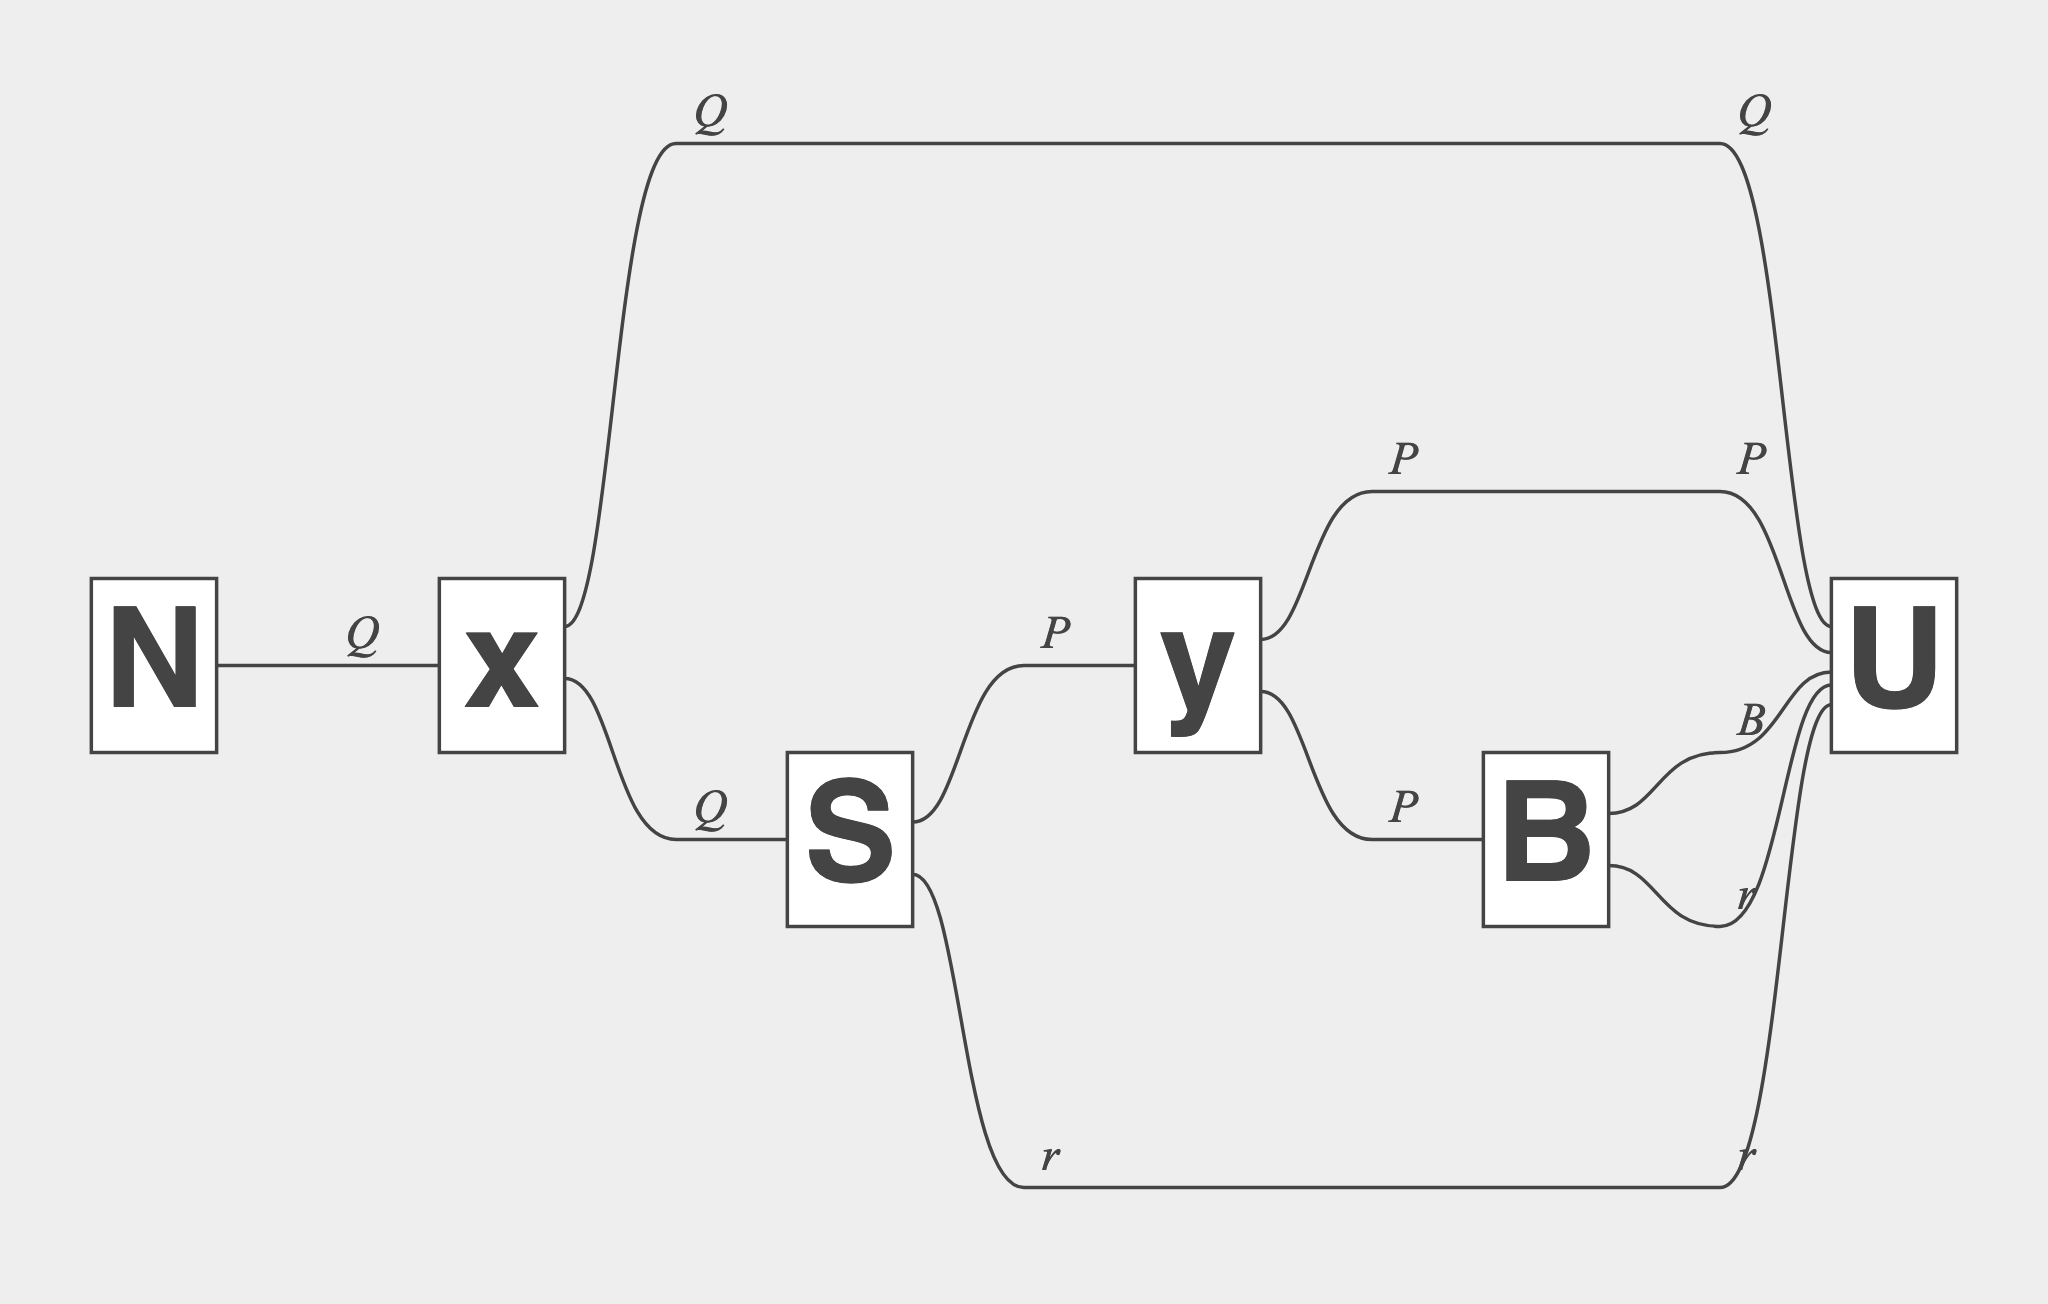
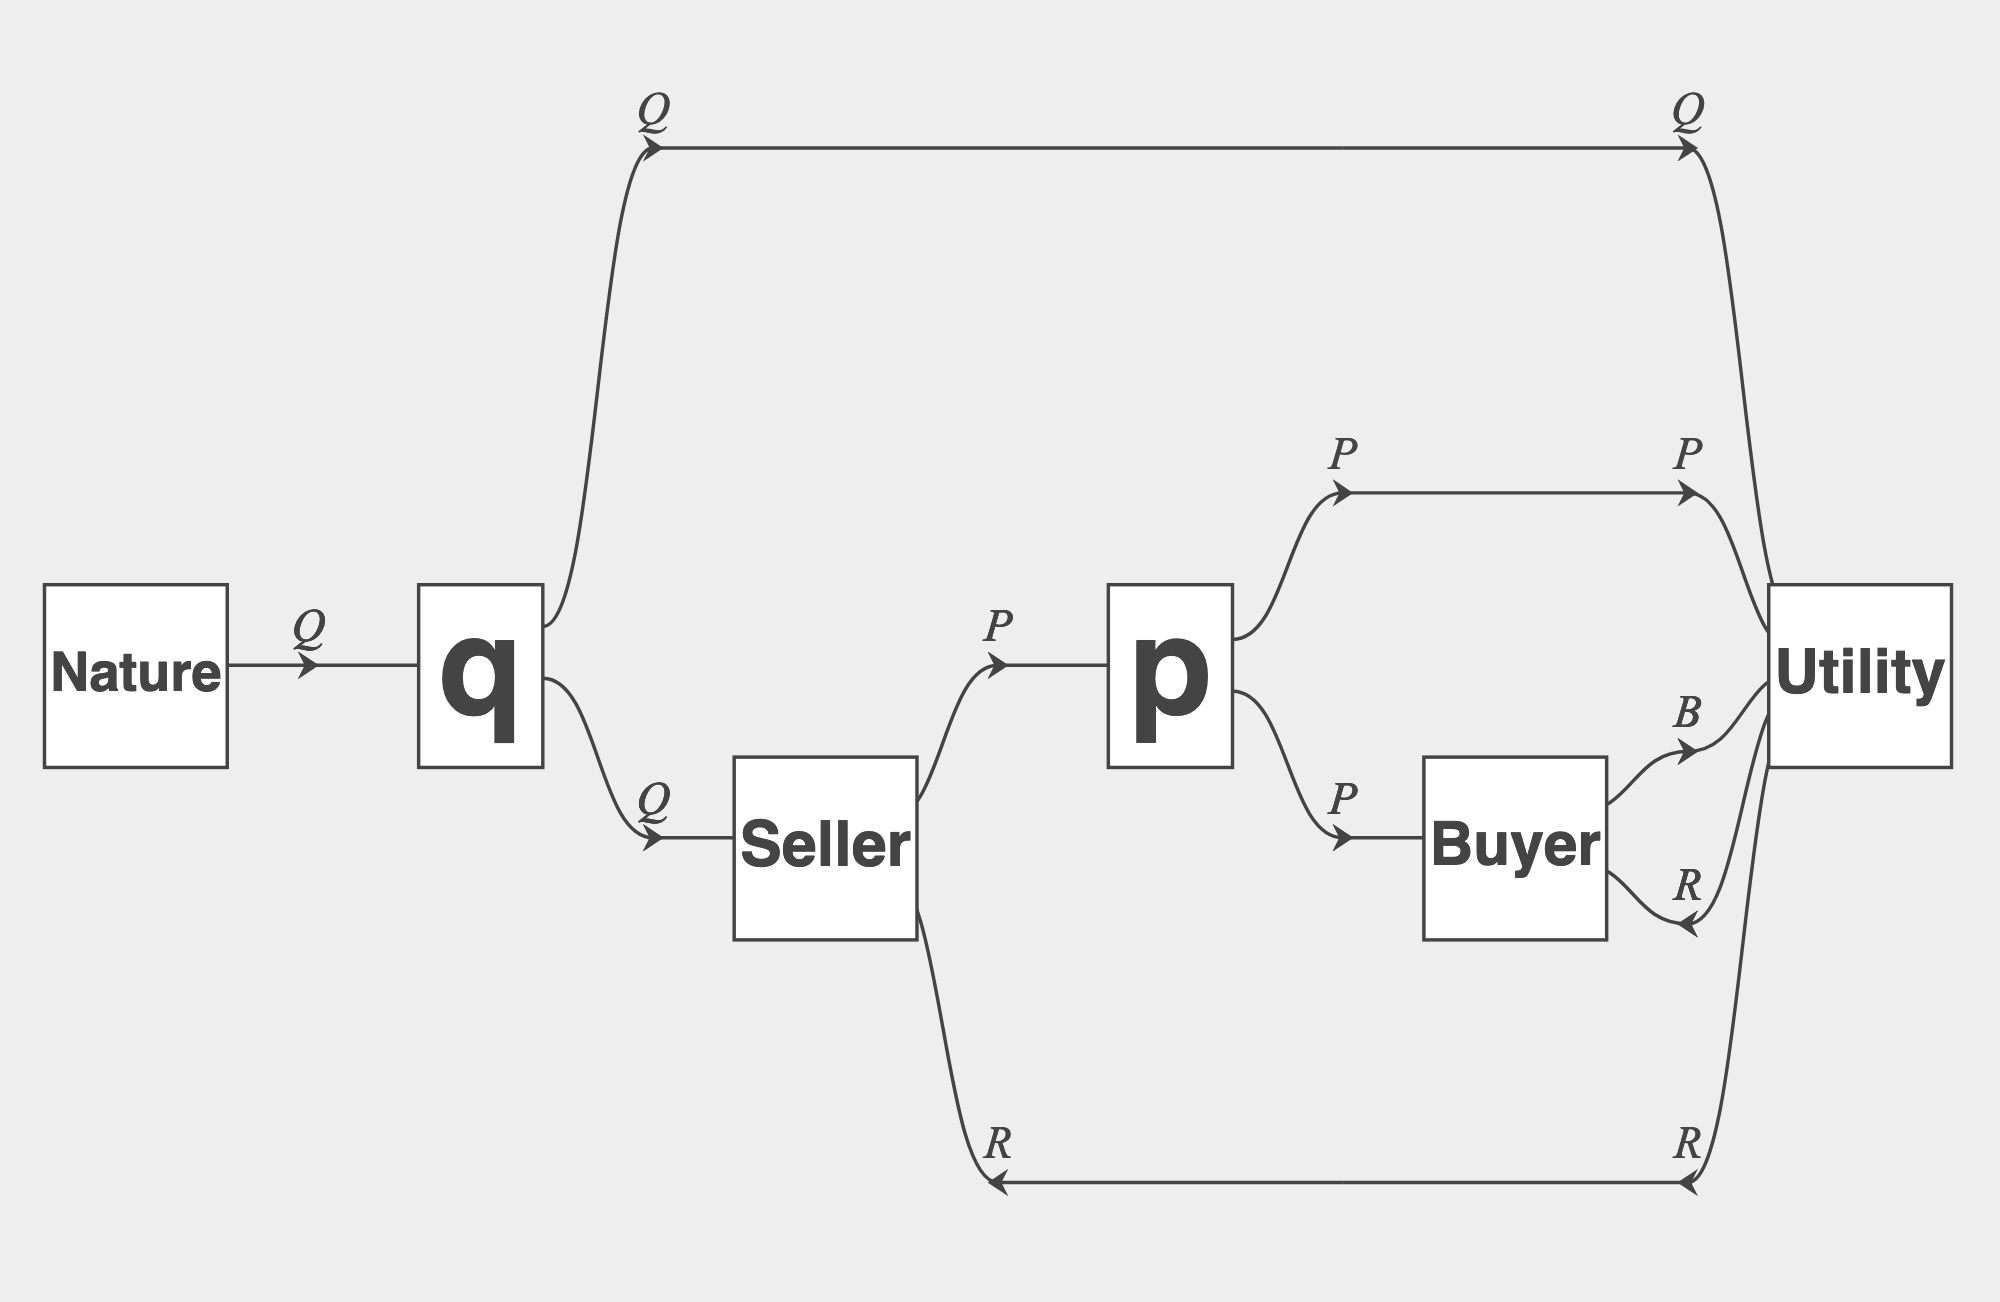
update diagram + link

diff --git a/README.md b/README.md
@@ -10,7 +10,7 @@ An introduction to category theory can be found in the [Statebox Monograph](http
 
 Elements of these things (called morphism) can be expressed as diagrams:
 
-![](lemon-game-diagram.png)
+[![](lemon-game-diagram.png)](https://edit.statebox.cloud/#pixels=Nq---U%0ANqSp-U%0ANqSpBU%0ANqS--U&context=Nature%3A%20-%3E%20Q%0Aq%3A%20Q%20-%3E%20Q%20Q%0Ap%3A%20P%20-%3E%20P%20P%0ASeller%3A%20Q%20-%3E%20P%20R*%0ABuyer%3A%20P%20-%3E%20B%20R*%0AUtility%3A%20Q%20P%20B%20R*%20R*%20-%3E%0A)
 
 We can use [tools developed at Statebox](https://edit.statebox.cloud) to build these diagrams and export Haskell `Arrow` expressions.
 
